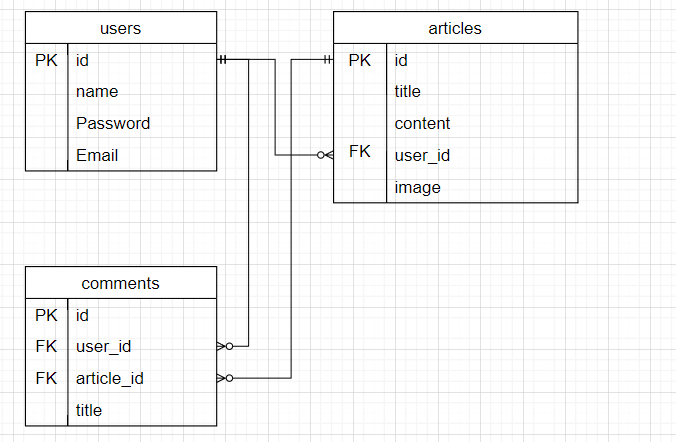
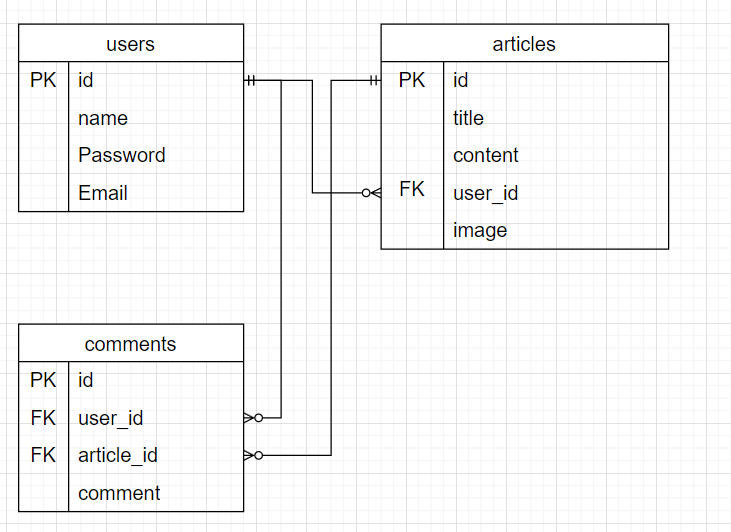
database realtion

diff --git a/main.go b/main.go
@@ -1,8 +1,10 @@
 package main
 
 import (
-	"fmt"
+	"log"
 	"newsapps/configs"
+	articleRepository "newsapps/internal/features/articles/repository"
+	commentRepository "newsapps/internal/features/comments/repository"
 	"newsapps/internal/features/users"
 	userHandler "newsapps/internal/features/users/handler"
 	userRepository "newsapps/internal/features/users/repository"
@@ -30,12 +32,16 @@ func main() {
 	setup := configs.ImportSetting()
 	connection, err := configs.ConnectDB(setup)
 	if err != nil {
-		fmt.Println("Stop program, masalah pada database", err.Error())
+		log.Fatal("Stop program, masalah database", err.Error())
 		return
 	}
 
-	connection.AutoMigrate(&userRepository.User{})
+	err = connection.AutoMigrate(&userRepository.User{}, &articleRepository.Article{}, &commentRepository.Comment{})
 
+	if err != nil {
+		log.Fatal("Stop program, masalah database ", err.Error())
+		return
+	}
 	e := echo.New()
 
 	e.Pre(middleware.RemoveTrailingSlash())
@@ -46,5 +52,4 @@ func main() {
 
 	routes.InitRoute(e, ur)
 	e.Logger.Fatal(e.Start(":8000"))
-	fmt.Println("testing BERHASIL!", connection)
 }

diff --git a/internal/features/users/repository/data.go b/internal/features/users/repository/data.go
@@ -3,6 +3,9 @@ package repository
 import (
 	"newsapps/internal/features/users"
 
+	articleRepository "newsapps/internal/features/articles/repository"
+	"newsapps/internal/features/comments/repository"
+
 	"gorm.io/gorm"
 )
 
@@ -12,7 +15,8 @@ type User struct {
 	Name     string
 	Password string
 	Email    string
-	// Todos     []Todo    `gorm:"foreignKey:Owner"`
+	Article  []articleRepository.Article `gorm:"foreignKey:User_id"`
+	Comment  []repository.Comment        `gorm:"foreignKey:User_id"`
 }
 
 func (u *User) toUserEntity() users.Users {

diff --git a/internal/features/articles/repository/data.go b/internal/features/articles/repository/data.go
@@ -1,1 +1,17 @@
 package repository
+
+import (
+	"newsapps/internal/features/comments/repository"
+
+	"gorm.io/gorm"
+)
+
+type Article struct {
+	gorm.Model
+	ID      uint
+	Title   string
+	Content string
+	User_id uint
+	Image   string
+	Comment []repository.Comment `gorm:"foreignKey:Article_id"`
+}

diff --git a/configs/config.go b/configs/config.go
@@ -2,6 +2,7 @@ package configs
 
 import (
 	"fmt"
+	"log"
 	"os"
 
 	"github.com/joho/godotenv"
@@ -44,6 +45,7 @@ func ConnectDB(s setting) (*gorm.DB, error) {
 	})
 
 	if err != nil {
+		log.Fatal("Error config database ", err.Error())
 		return nil, err
 	}
 

diff --git a/internal/features/articles/repository/query.go b/internal/features/articles/repository/query.go
@@ -1,1 +1,13 @@
 package repository
+
+import "gorm.io/gorm"
+
+type ArticleModel struct {
+	db *gorm.DB
+}
+
+// func NewUserModel(connection *gorm.DB) Article.Query {
+// 	return &ArticleModel{
+// 		db: connection,
+// 	}
+// }

diff --git a/internal/features/comments/repository/data.go b/internal/features/comments/repository/data.go
@@ -1,1 +1,11 @@
 package repository
+
+import "gorm.io/gorm"
+
+type Comment struct {
+	gorm.Model
+	ID         uint
+	Article_id uint
+	User_id    uint
+	Comment    string
+}
